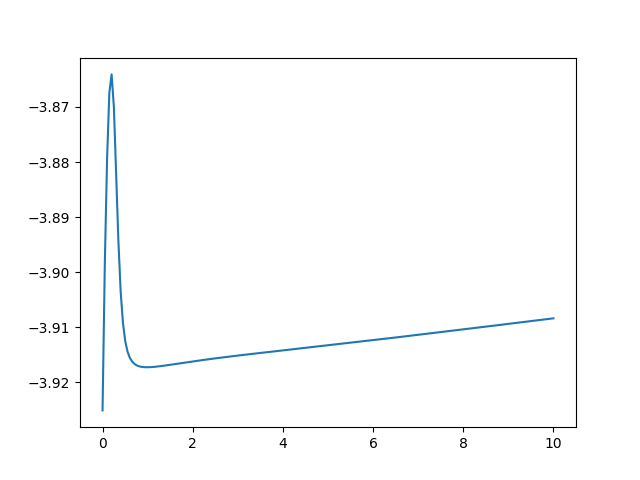
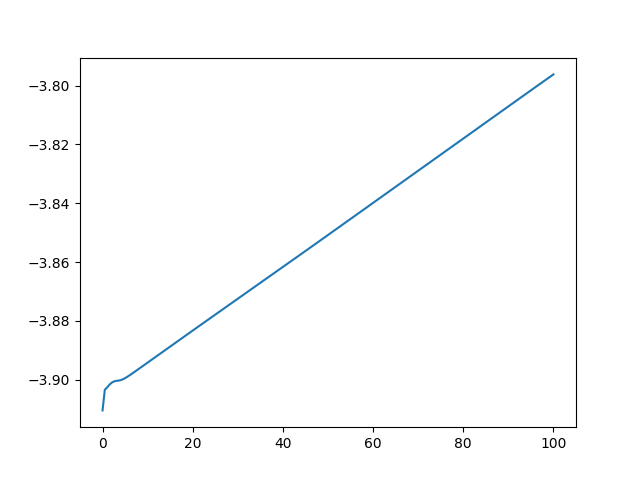
z=0 to 100 rmtpp loss

diff --git a/noise.py b/noise.py
@@ -61,7 +61,7 @@ def evaluate_noise():
 def evaluate_noise_loss():
     model.eval()
 
-    errors = np.linspace(0,10,200)
+    errors = np.linspace(0,100,200)
     losses = []
 
     for z in errors:
